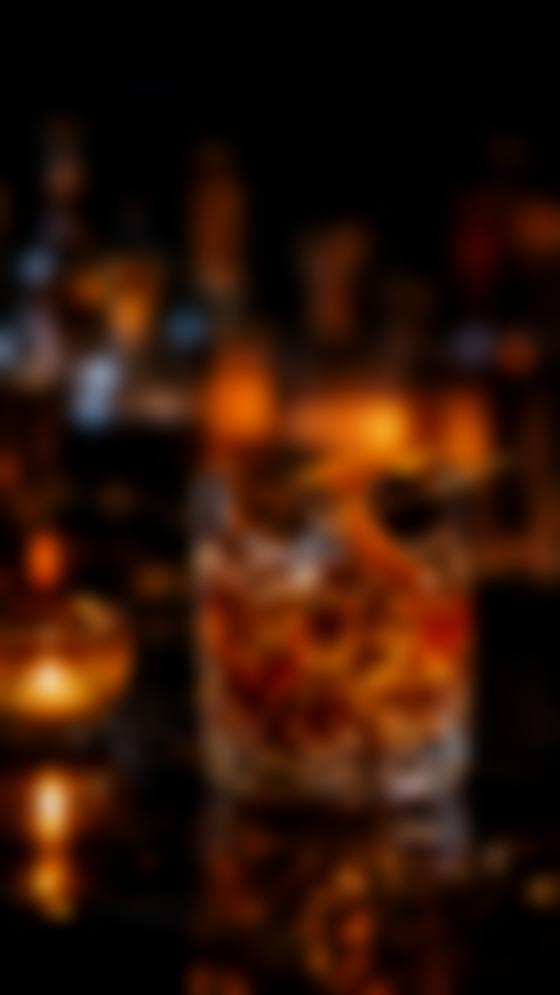
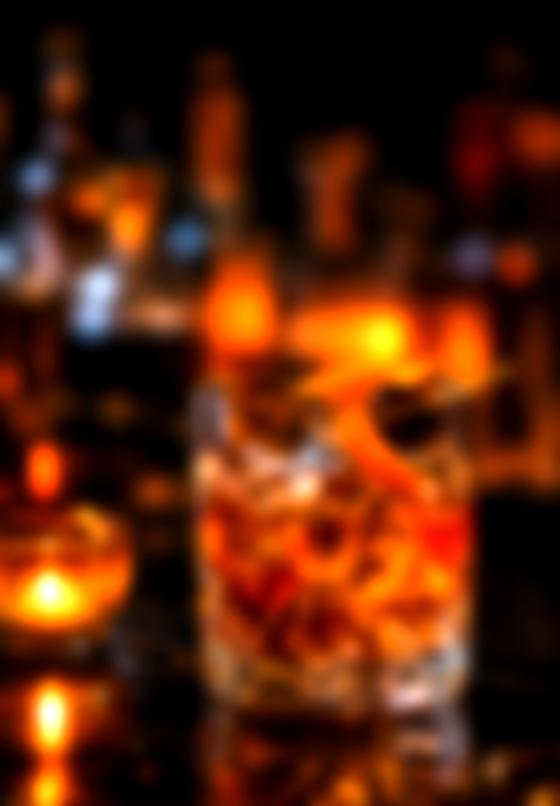
Make the cocktail map backdrop actually visible
Three rounds of feedback all landed on the same problem: it read as
barely-there, "a couple of spots," not a background. The fixes were
compounding in the wrong direction -- cropped out the large near-black
margins at the top/bottom of the source photo that were eating most of
the frame for zero color, brightened the image itself instead of
darkening it further, and lightened the CSS vignette on top so it stops
fighting the photo. Net effect: a clearly visible warm amber glow across
the page instead of two dim highlights, still at ~28KB.

Claude-Session: https://claude.ai/code/session_01ToeWBooF49ym8YXvjXkhfT

diff --git a/styles.css b/styles.css
@@ -95,7 +95,7 @@ body.page-menu .bg-photo {
 body.page-cocktails .bg-photo {
   background-color: #08060F;
   background-image:
-    linear-gradient(180deg, rgba(5, 3, 10, 0.55) 0%, rgba(8, 6, 20, 0.4) 45%, rgba(5, 3, 10, 0.72) 100%),
+    linear-gradient(180deg, rgba(5, 3, 10, 0.38) 0%, rgba(8, 6, 20, 0.25) 45%, rgba(5, 3, 10, 0.58) 100%),
     radial-gradient(ellipse at 18% -10%, rgba(177, 76, 255, 0.18), transparent 55%),
     radial-gradient(ellipse at 86% 2%, rgba(0, 212, 255, 0.15), transparent 50%),
     url("images/cocktails-bg.jpg");
